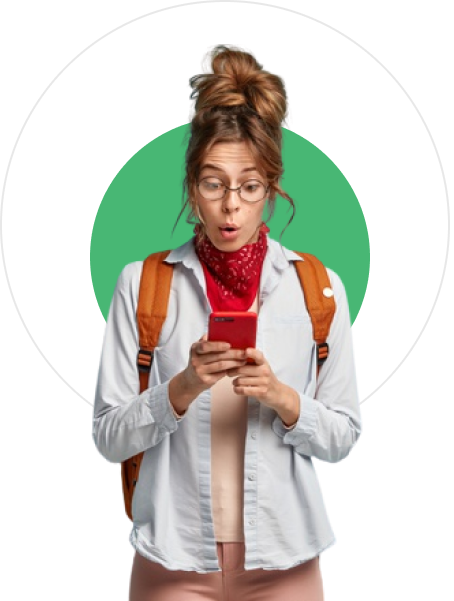
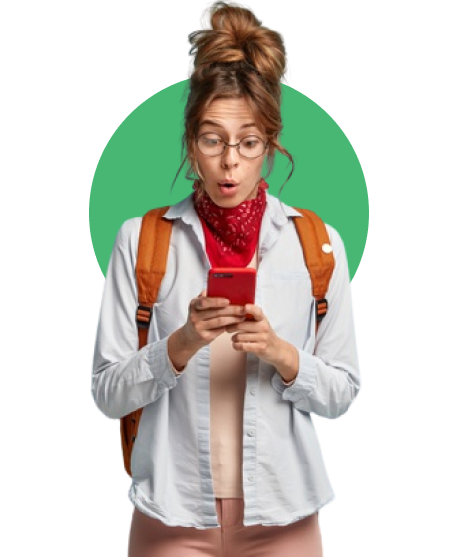
feat: add adaptive animation

Changed region(s): [[0.1854, 0.0, 0.8344, 1.0], [0.7108, 0.8851, 0.7417, 0.9156]]

diff --git a/global/scss/style.scss b/global/scss/style.scss
@@ -258,6 +258,9 @@ button {
   &__picture {
     position: relative;
   }
+  &__picture-girl {
+    padding-top: 42px;
+  }
 }
 .flags {
   position: absolute;
@@ -393,6 +396,21 @@ button {
     &__user-img {
       z-index: -1;
     }
+    &__picture {
+      max-width: 50%;
+      margin: 0 auto;
+    }
+    &__picture-girl {
+      max-width: 100%;
+    }
+  }
+  .flags {
+    width: 270px;
+    height: 270px;
+    left: 0;
+    right: 0;
+    margin: auto;
+    top: 10%;
   }
 }
 @media screen and (max-width: 576px) {
@@ -409,9 +427,14 @@ button {
       left: 50%;
       transform: translate(-50%, 0);
     }
-    &__picture-girl {
-      max-width: 100%;
-    }
+  }
+  .flags {
+    width: 170px;
+    height: 170px;
+  }
+  .flag{
+    width: 80px;
+    height: 80px;
   }
 }
 @media screen and (max-width: 400px) {
@@ -419,6 +442,10 @@ button {
     &__text {
       font-size: 12px;
     }
+  }
+  .flags {
+    width: 150px;
+    height: 150px;
   }
 }
 @keyframes showBlock {

diff --git a/global/scss/style.css b/global/scss/style.css
@@ -280,6 +280,9 @@ button {
 .about__picture {
   position: relative;
 }
+.about__picture-girl {
+  padding-top: 42px;
+}
 
 .flags {
   position: absolute;
@@ -423,6 +426,21 @@ button {
   .about__btn, .about__search, .about__user-img {
     z-index: -1;
   }
+  .about__picture {
+    max-width: 50%;
+    margin: 0 auto;
+  }
+  .about__picture-girl {
+    max-width: 100%;
+  }
+  .flags {
+    width: 270px;
+    height: 270px;
+    left: 0;
+    right: 0;
+    margin: auto;
+    top: 10%;
+  }
 }
 @media screen and (max-width: 576px) {
   .about__title {
@@ -437,13 +455,22 @@ button {
     left: 50%;
     transform: translate(-50%, 0);
   }
-  .about__picture-girl {
-    max-width: 100%;
+  .flags {
+    width: 170px;
+    height: 170px;
+  }
+  .flag {
+    width: 80px;
+    height: 80px;
   }
 }
 @media screen and (max-width: 400px) {
   .about__text {
     font-size: 12px;
+  }
+  .flags {
+    width: 150px;
+    height: 150px;
   }
 }
 @-webkit-keyframes showBlock {

diff --git a/global/js/animate-flags.js b/global/js/animate-flags.js
@@ -16,7 +16,6 @@ const appearanceOfFlags = () => {
 
 setTimeout(appearanceOfFlags, allInterval);
 allInterval += (400*flags.length);
-console.log(allInterval)
 const step = () => {
   flagBlock.style.animation = "rotateCircle 7s linear infinite";
 };
